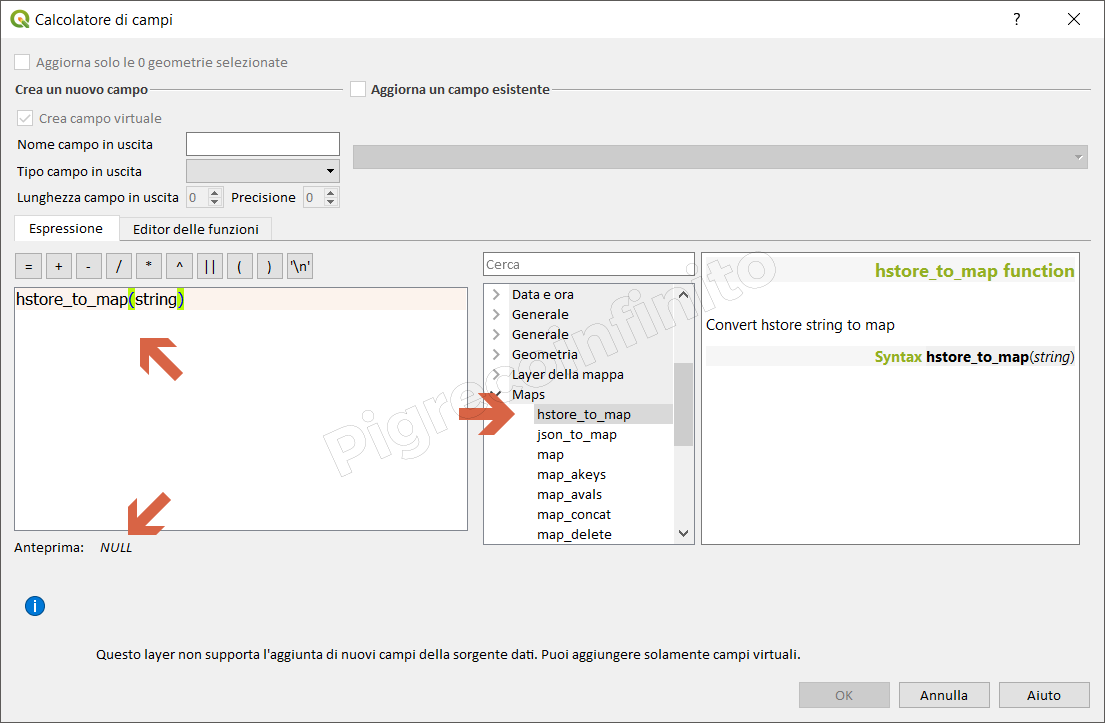
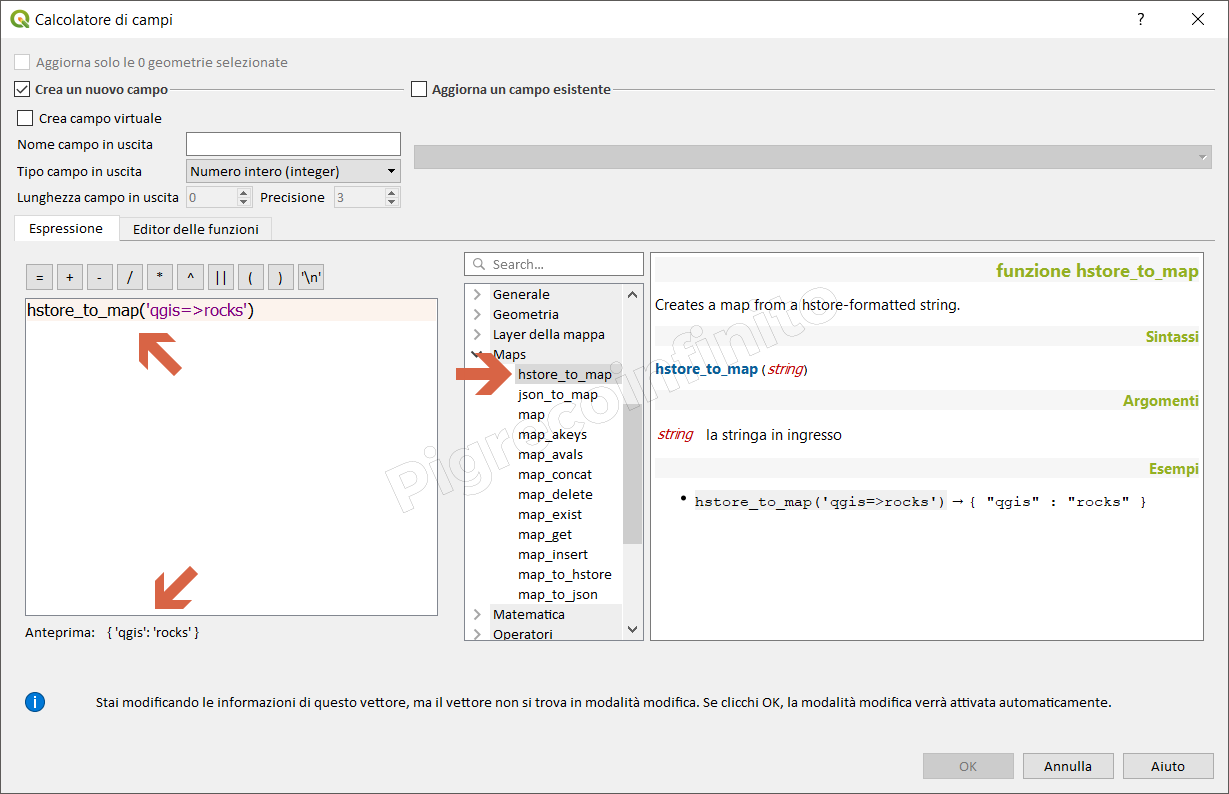
add funzioni maps

diff --git a/gr_funzioni/array/README.md b/gr_funzioni/array/README.md
@@ -2,7 +2,7 @@
 
 Questo gruppo contiene funzioni espressione per la creazione e la manipolazione di array (noti anche come strutture dati ad elenco). L'ordine dei valori all'interno dell'array è importante, al contrario della struttura dati 'a mappa' ([gruppo Maps](../maps)), in cui l'ordine delle coppie chiave-valore è irrilevante e i valori vengono identificati dalle loro chiavi.
 
-| Funzione  | Descrizione|Plugin
+| Funzione  | Descrizione|Info
 |----------:|:-----------|--------
 |[array_filter](funzioni/array_filter.md)|Restituisce un array con solo gli elementi per i quali l'espressione restituisce true (vero)| **>= QGIS 3.4**
 |[array_foreach](funzioni/array_foreach.md)|Restituisce una matrice con l'espressione data valutata su ciascun elemento| **>= QGIS 3.4**

diff --git a/gr_funzioni/maps/funzioni/hstore_to_map.md b/gr_funzioni/maps/funzioni/hstore_to_map.md
@@ -1,24 +1,22 @@
 ## Funzione `hstore_to_map`
 
-Coverte stringa json in map.
+Crea una mappa da una stringa formattata in hstore
 
 ## Sintassi
 
-hstore_to_map(_json string_)
+hstore_to_map(_string_)
 
 ## Argomenti
 
-* _json string_ una stringa json
+* _string_ una stringa
 
 ## Esempi
 
-* 
+* `hstore_to_map('qgis=>rocks') → { "qgis" : "rocks" }`
 
 ![](/img/maps/hstore_to_map/hstore_to_map1.png)
 
 ## nota bene
-
-Questa funzione sarà presente, nel calcolatore, solo dopo l'installazione del plugin [ArrayPlus](https://framagit.org/jbdesbas/arrayPlus)
 
 ## osservazioni
 

diff --git a/gr_funzioni/maps/funzioni/json_to_map.md b/gr_funzioni/maps/funzioni/json_to_map.md
@@ -1,18 +1,18 @@
 ## Funzione `json_to_map`
 
-Restituisce tutte le chiavi di una mappa come un array.
+Crea una mappa da una stringa formattata con json
 
 ## Sintassi
 
-json_to_map(_json string_)
+json_to_map(_string_)
 
 ## Argomenti
 
-* _json string_ una stringa json
+* _string_ una stringa json
 
 ## Esempi
 
-* ``json_to_map('{"a":12,"b":["rre","rra"]}') → <map: a:12,<array: 'rre','rra'>>``
+* `json_to_map('{"qgis":"rocks"}') → { "qgis" : "rocks" }`
 
 ![](/img/maps/json_to_map/json_to_map1.png)
 
@@ -23,3 +23,4 @@ json_to_map(_json string_)
 ## osservazioni
 
 --
+

diff --git a/README.md b/README.md
@@ -34,7 +34,7 @@ Gruppo funzioni|nro funzioni*|info
 [Generale](./gr_funzioni/generale)| (7/7)|
 [Geometria](./gr_funzioni/geometria) |(98/98)| aggiornate a **QGIS 3.4**
 [Layer della mappa](./gr_funzioni/layer_della_mappa)| (1/1)| >= QGIS 3.0
-[Maps](./gr_funzioni/maps)| (10/10) |>= QGIS 3.0 (PostGIS) - ArrayPlus Plugin
+[Maps](./gr_funzioni/maps)| (10/10) |>= QGIS 3.0 (PostGIS)
 [Matematica](./gr_funzioni/matematica)| (28/28)|
 [Operatori](./gr_funzioni/operatori)| (21/21)|
 [Rasters](./gr_funzioni/rasters)|(2/2)|>= **QGIS 3.4** 

diff --git a/gr_funzioni/maps/funzioni/map_to_hstore.md b/gr_funzioni/maps/funzioni/map_to_hstore.md
@@ -1,0 +1,26 @@
+## Funzione `map_to_hstore`
+
+Unisci gli elementi della mappa in una stringa formattata in hstore.
+
+## Sintassi
+
+map_to_hstore(_map_)
+
+## Argomenti
+
+* _map_ una mappa
+
+## Esempi
+
+* `map_to_hstore(map('qgis','rocks')) → "qgis"=>"rocks"}`
+
+![](/img/maps/map_to_hstore/map_to_hstore1.png)
+
+## nota bene
+
+--
+
+## osservazioni
+
+--
+

diff --git a/gr_funzioni/maps/funzioni/map_to_json.md b/gr_funzioni/maps/funzioni/map_to_json.md
@@ -1,0 +1,26 @@
+## Funzione `map_to_json`
+
+Unisci gli elementi della mappa in una stringa formattata con json.
+
+## Sintassi
+
+map_to_json(_map_)
+
+## Argomenti
+
+* _map_ una mappa
+
+## Esempi
+
+* `map_to_json(map('qgis','rocks')) → {"qgis":"rocks"}`
+
+![](/img/maps/map_to_json/map_to_json1.png)
+
+## nota bene
+
+--
+
+## osservazioni
+
+--
+
